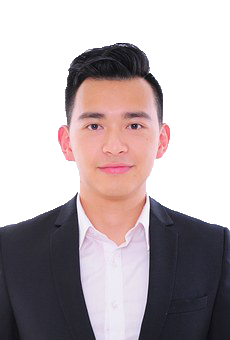
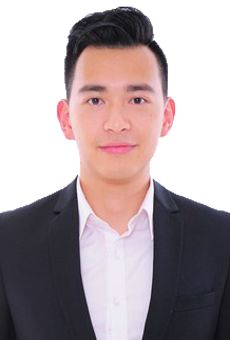
changed images

diff --git a/styles.css b/styles.css
@@ -46,12 +46,7 @@ body {
     width: 48%;
 }
 
-.block2_img img {
-    width: 160%;
-    margin-left: -196px;
-    position: relative;
-    left: 0px;
-}
+.block2_img img {}
 
 .block2_content {
     text-align: right;
@@ -260,9 +255,6 @@ body {
     margin: 13px;
     font-size: 26px;
     font-weight: bolder;
-
-    -
-    r: 24px;
     position: relative;
     padding: 20px;
 }
@@ -526,7 +518,6 @@ body {
 
 .footer {
     background-color: #171717;
-    padding\: 20px 0px;
     padding: 20px 0 20px 189px;
     display: flex;
     flex-wrap: wrap;

diff --git a/index.html b/index.html
@@ -135,7 +135,7 @@
                 </div>
             </div>
             <div class="block6_img-box-left">
-                <img src="images/1.png">
+                <img src="images/2.png">
                 <div class="block6_rect-box1">
                     <div class="block6_rect-box1-name">ALEX ZEVIOR</div>
                     <div class="block6_rect-box1-designation">WEB DESIGNER</div>
